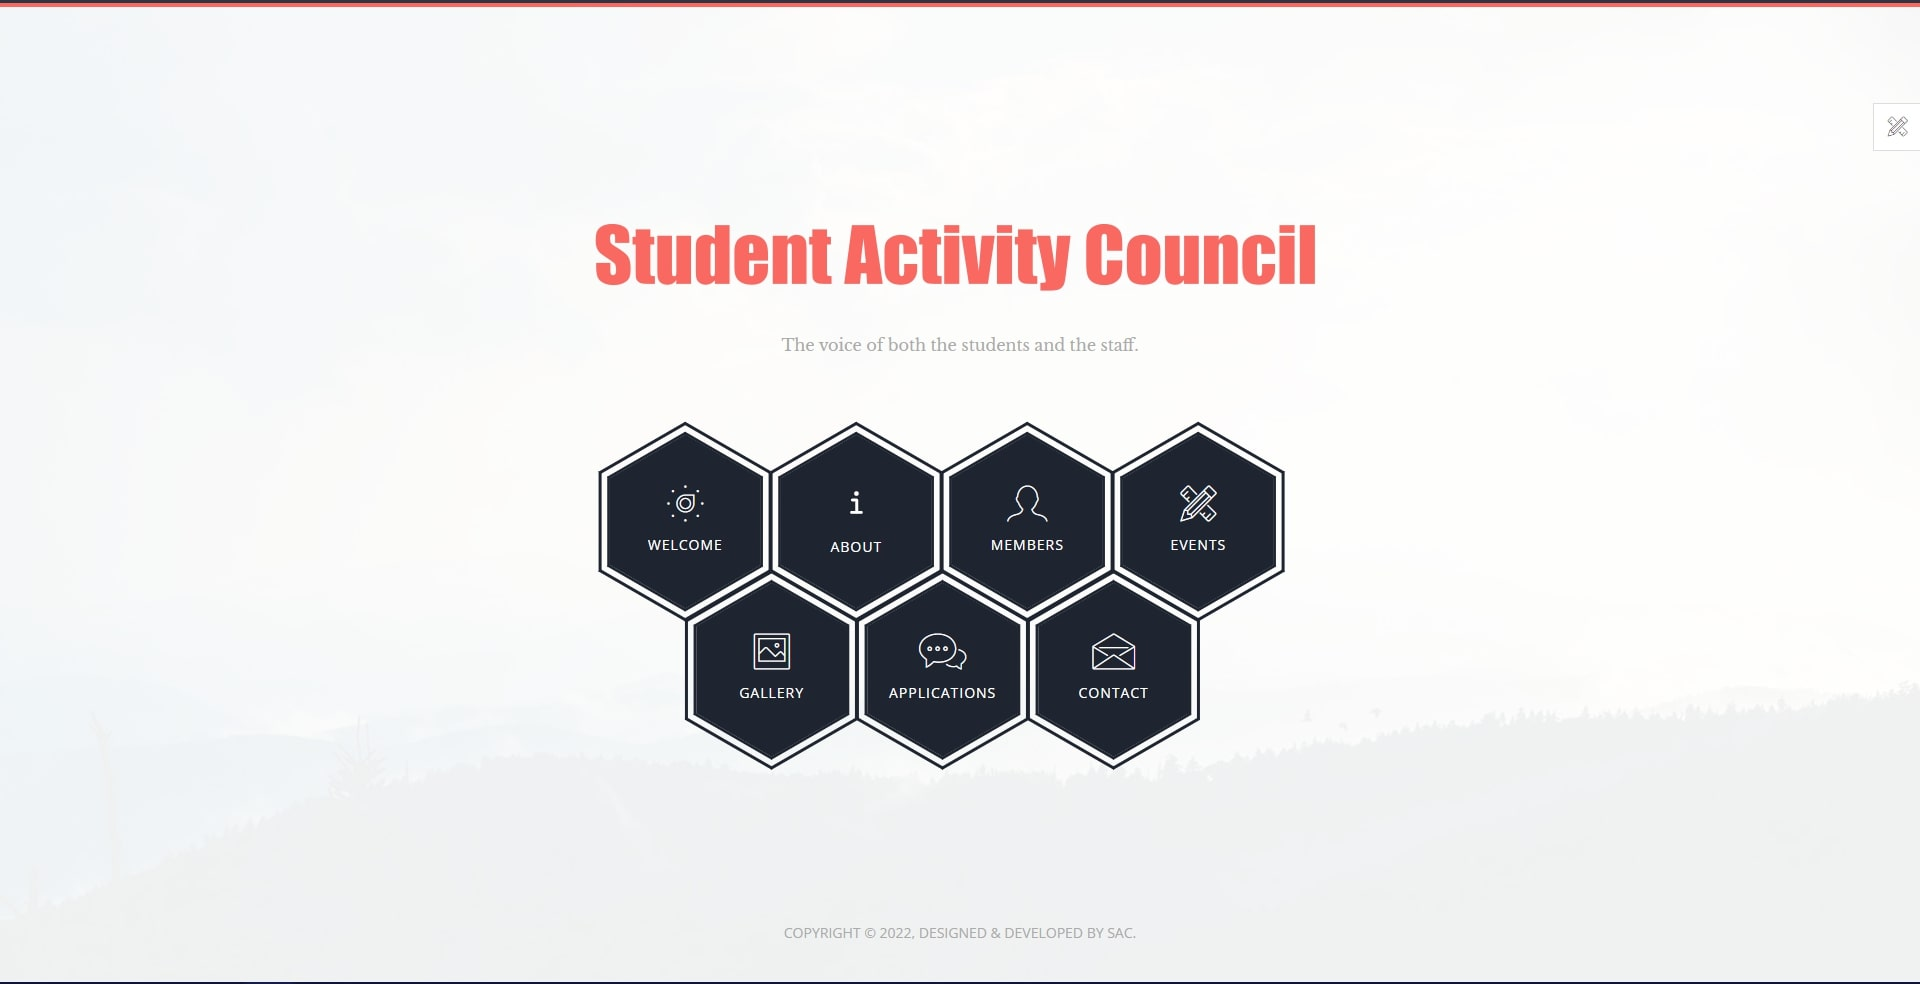
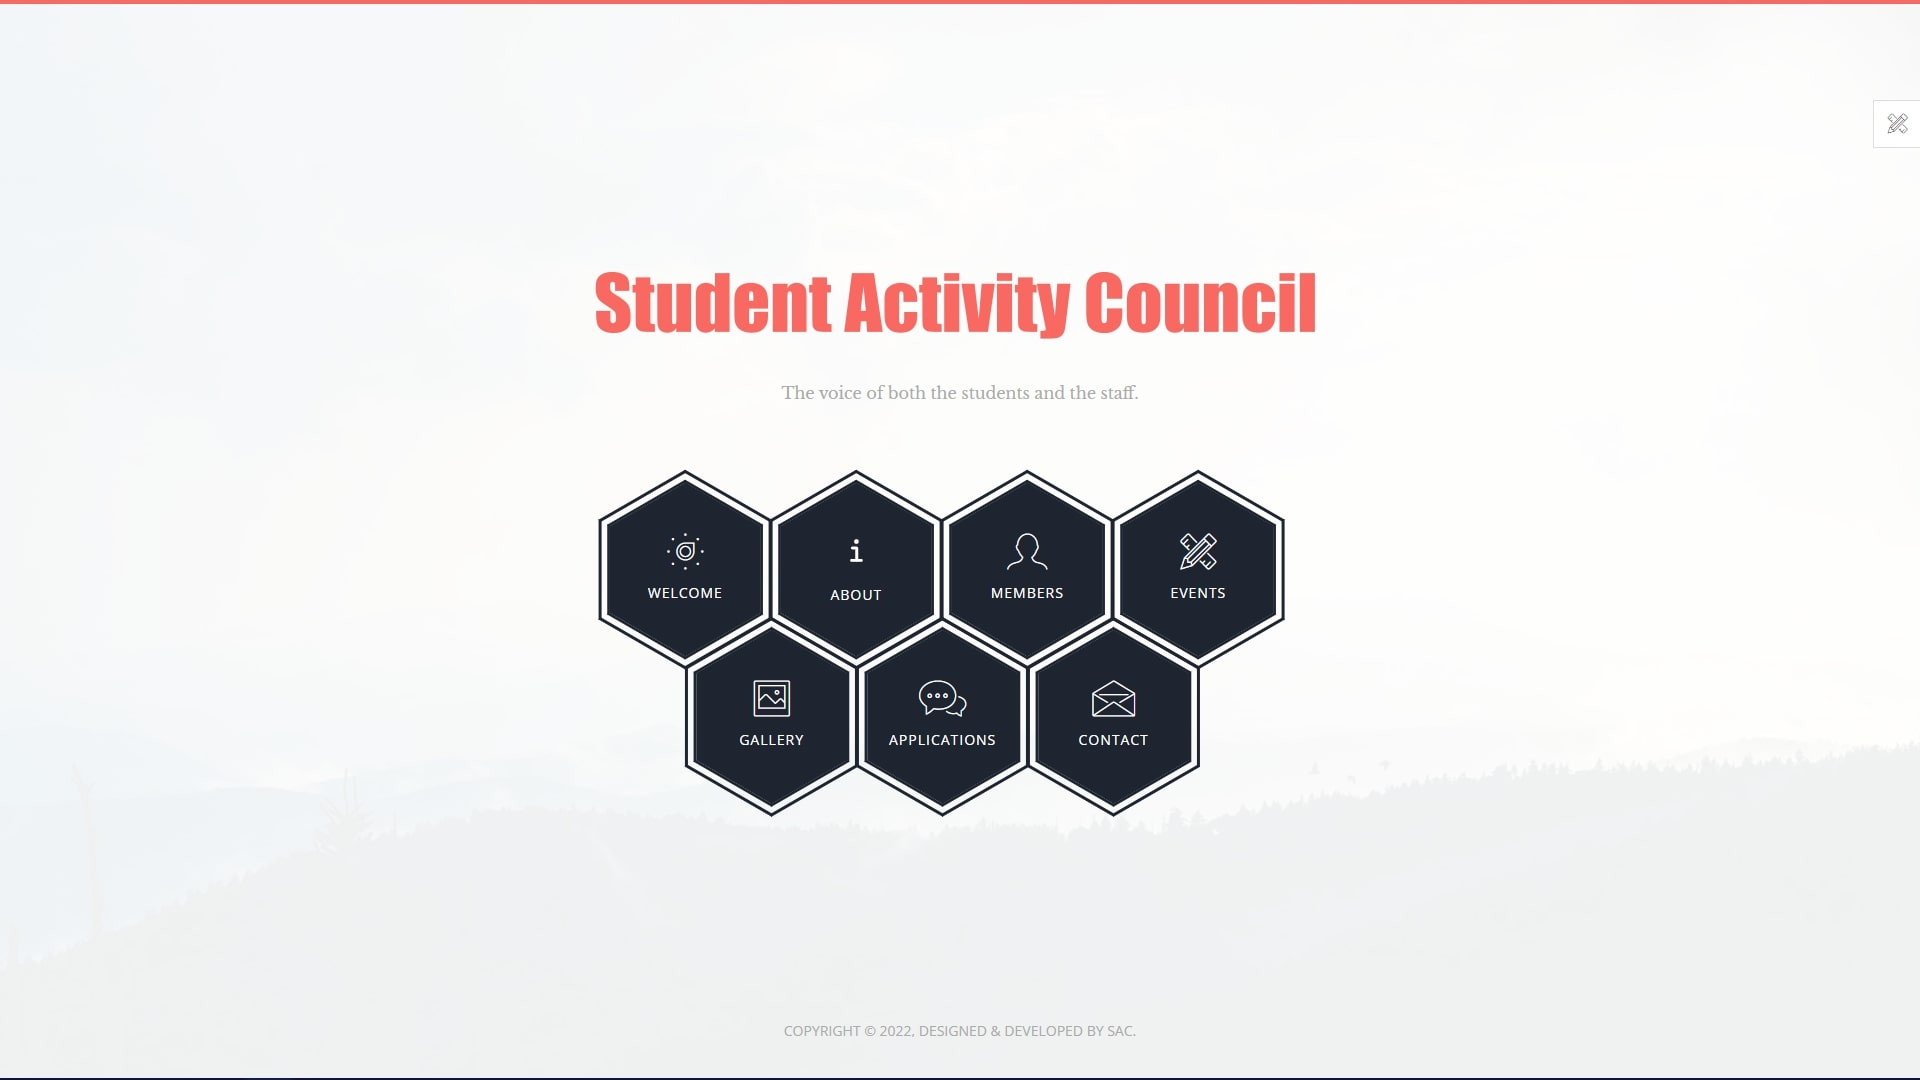
Switch Pictures

diff --git a/index.html b/index.html
@@ -175,8 +175,8 @@
       <div class="user-projects">
         <div class="images-left">
           <picture>
-            <source type="image/webp" srcset="./assets/img/webp/Perpetual-Crusades.webp" alt="Perpetual Crusades" />
-            <img alt="Perpetual Crusades" src="./assets/img/jpg/Perpetual-Crusades.jpg" />
+            <source type="image/webp" srcset="./assets/img/webp/TFSS-SAC-Website.webp" alt="Perpetual Crusades" />
+            <img alt="Perpetual Crusades" src="./assets/img/jpg/TFSS-SAC-Website.jpg" />
           </picture>
         </div>
         <div class="contents-right" style="text-align: center">
@@ -187,13 +187,13 @@
             src="https://unpkg.com/simple-icons@3.4.0/icons/bootstrap.svg"
             style="filter: invert(25%) sepia(47%) saturate(4151%) hue-rotate(338deg) brightness(100%) contrast(95%)"
           />
+          &nbsp;
           <img
             height="32"
             width="32"
             src="https://unpkg.com/simple-icons@3.4.0/icons/html5.svg"
             style="filter: invert(65%) sepia(77%) saturate(1845%) hue-rotate(183deg) brightness(101%) contrast(103%)"
           />
-          &nbsp;
           <img
             height="32"
             width="32"
